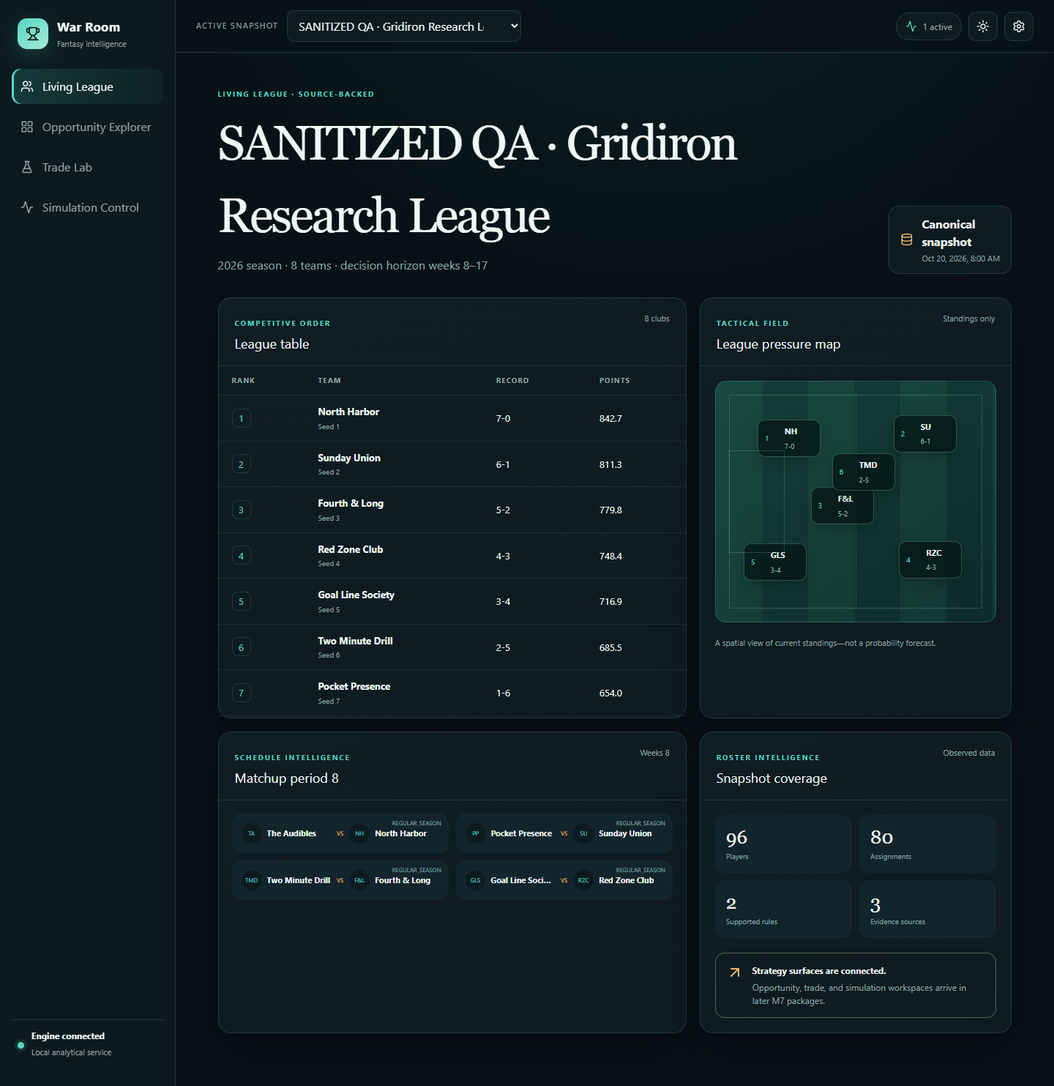
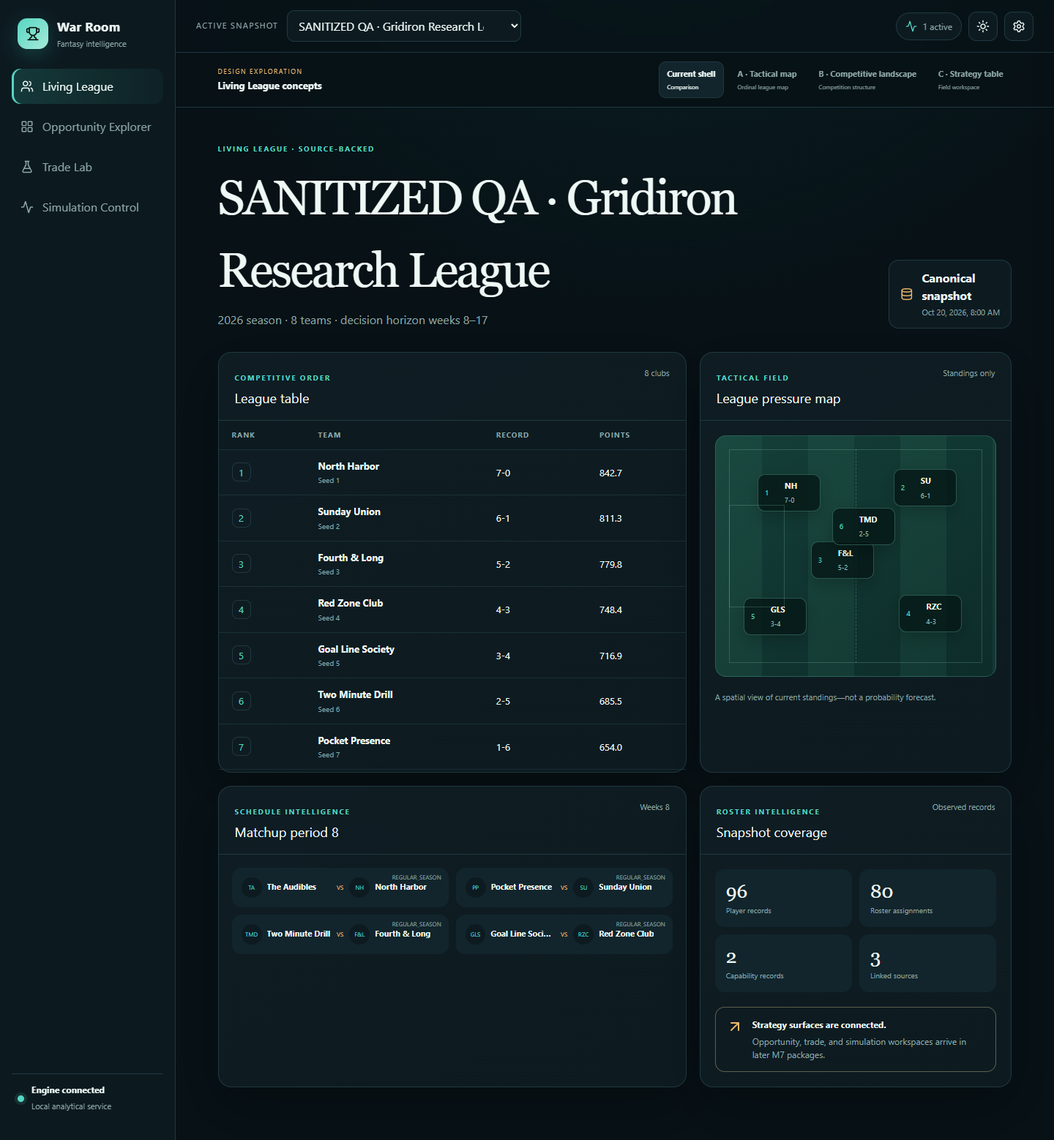
feat: add M7.1 visual direction prototypes

diff --git a/frontend/src/styles.css b/frontend/src/styles.css
@@ -21,3 +21,12 @@ main { min-width:0; }.surface{padding:42px clamp(20px,4vw,64px) 72px;max-width:1
 @media (max-width:1050px){.app-shell{grid-template-columns:84px 1fr}.brand>div:last-child,.rail nav button span,.rail-footer div{display:none}.brand{justify-content:center}.rail nav button{justify-content:center}.league-grid{grid-template-columns:1fr}.pitch-card{order:-1}.matchup-list{grid-template-columns:repeat(2,1fr)}}
 @media (max-width:700px){.app-shell{display:block;padding-bottom:68px}.rail{position:fixed;inset:0 auto 0 0;width:260px;transform:translateX(-105%);transition:transform .2s}.rail.rail-open{transform:none}.brand>div:last-child,.rail nav button span,.rail-footer div{display:block}.brand{justify-content:flex-start}.rail nav button{justify-content:flex-start}.command-bar{grid-column:auto;padding:10px 14px}.mobile-only{display:grid}.snapshot-control>span,.run-indicator span{display:none}.snapshot-control select{max-width:45vw}.scrim{display:block;position:fixed;inset:0;border:0;background:rgb(0 0 0 / .55);z-index:19}.surface{padding:28px 15px 45px}.hero{align-items:start;display:block}.hero h1{font-size:38px}.source-seal{margin-top:20px;width:max-content}.matchup-list{grid-template-columns:1fr}.mobile-nav{display:flex;position:fixed;z-index:15;bottom:0;left:0;right:0;height:66px;background:color-mix(in srgb,var(--panel) 94%,transparent);border-top:1px solid var(--line);justify-content:space-around;backdrop-filter:blur(18px)}.mobile-nav button{border:0;background:transparent;color:var(--muted);display:grid;place-items:center;padding:7px 6px;min-width:62px;font-size:9px}.mobile-nav button svg{width:19px}.mobile-nav button.active{color:var(--teal)}.pitch{height:280px;margin:12px}.standings th,.standings td{padding:11px 10px}.context-panel{bottom:66px}.command-actions{gap:5px}.icon-button{width:38px;height:38px}}
 @media (prefers-reduced-motion:reduce){*,*:before,*:after{scroll-behavior:auto!important;animation-duration:.01ms!important;animation-iteration-count:1!important;transition-duration:.01ms!important}}
+
+/* M7.1 visual-direction lab: isolated presentation prototypes over shared source data. */
+.concept-bar{position:sticky;top:72px;z-index:11;display:flex;align-items:center;justify-content:space-between;gap:20px;padding:12px clamp(20px,4vw,64px);background:color-mix(in srgb,var(--bg) 92%,transparent);border-bottom:1px solid var(--line);backdrop-filter:blur(18px)}.concept-bar>div:first-child span,.concept-bar>div:first-child strong{display:block}.concept-bar>div:first-child span{color:var(--warm);font-size:9px;text-transform:uppercase;letter-spacing:.16em}.concept-bar>div:first-child strong{font-size:13px;margin-top:3px}.concept-bar [role=tablist]{display:flex;gap:6px;overflow:auto}.concept-bar button{border:1px solid transparent;background:transparent;color:var(--muted);padding:8px 11px;border-radius:10px;text-align:left;cursor:pointer;white-space:nowrap}.concept-bar button strong,.concept-bar button span{display:block}.concept-bar button strong{font-size:11px}.concept-bar button span{font-size:8px;margin-top:3px}.concept-bar button[aria-selected=true]{background:var(--panel-2);border-color:var(--line);color:var(--text)}
+.prototype{min-height:calc(100vh - 132px);padding:28px clamp(20px,4vw,60px) 56px;max-width:1600px;margin:auto}.prototype-title{display:grid;grid-template-columns:52px 1fr auto;gap:18px;align-items:start;margin-bottom:25px}.prototype-title>svg{width:46px;height:46px;padding:12px;border:1px solid var(--line);border-radius:14px;color:var(--teal);background:var(--panel)}.prototype-title h1{font:clamp(32px,4vw,54px) Georgia,serif;letter-spacing:-.035em;margin:4px 0}.prototype-title p{color:var(--muted);max-width:760px;margin:0;line-height:1.6}.prototype-title em{font-style:normal;color:var(--muted);font-size:9px;text-transform:uppercase;letter-spacing:.12em;border:1px solid var(--line);border-radius:999px;padding:8px 10px}.prototype-kicker{color:var(--teal);font-size:9px;text-transform:uppercase;letter-spacing:.17em;font-weight:700}
+.map-stage{position:relative;min-height:650px;border:1px solid var(--line);border-radius:28px;overflow:hidden;background:radial-gradient(circle at 50% 50%,rgb(69 204 183 / .12),transparent 32%),linear-gradient(145deg,#08191d,#071116 65%)}.map-stage:before{content:"";position:absolute;inset:0;background-image:linear-gradient(rgb(86 214 194 / .04) 1px,transparent 1px),linear-gradient(90deg,rgb(86 214 194 / .04) 1px,transparent 1px);background-size:44px 44px}.map-axis{position:absolute;left:5%;right:35%;top:34px;display:flex;justify-content:space-between;color:var(--muted);font-size:9px;text-transform:uppercase;letter-spacing:.12em}.map-track{position:absolute;left:6%;right:37%;top:100px;bottom:70px;display:grid;grid-template-columns:repeat(4,1fr);grid-template-rows:repeat(2,1fr);gap:34px}.map-track:before{content:"";position:absolute;left:4%;right:4%;top:50%;border-top:1px dashed rgb(86 214 194 / .22)}.map-track button{position:relative;z-index:2;align-self:center;justify-self:center;width:112px;height:112px;border-radius:50%;border:1px solid rgb(92 211 190 / .3);background:radial-gradient(circle at 35% 30%,#173b3b,#091719 67%);color:var(--text);box-shadow:0 18px 40px rgb(0 0 0 / .32);cursor:pointer}.map-track button span,.map-track button strong,.map-track button small{display:block}.map-track button span{position:absolute;top:9px;left:12px;color:var(--teal);font-size:9px}.map-track button strong{font-size:18px}.map-track button small{color:var(--muted);margin-top:4px}.map-track button.selected{border:2px solid var(--warm);transform:scale(1.08);box-shadow:0 0 0 8px rgb(241 185 107 / .08),0 20px 50px rgb(0 0 0 / .4)}.map-intel{position:absolute;right:0;top:0;bottom:0;width:31%;padding:38px 30px;background:rgb(8 25 29 / .9);border-left:1px solid var(--line);backdrop-filter:blur(16px)}.map-intel h2{font:30px Georgia,serif;margin:8px 0 24px}.fact-strip{display:grid;grid-template-columns:repeat(3,1fr);gap:8px}.fact-strip>div{padding:12px;background:var(--panel-2);border-radius:11px}.fact-strip span,.fact-strip strong{display:block}.fact-strip span{font-size:8px;color:var(--muted);text-transform:uppercase}.fact-strip strong{margin-top:5px}.map-intel h3{font-size:10px;text-transform:uppercase;letter-spacing:.13em;color:var(--muted);margin-top:35px}.linked-opponent{display:flex;align-items:center;gap:8px;padding:13px;border:1px solid var(--line);border-radius:12px}.linked-opponent svg{width:15px;color:var(--warm)}
+.landscape-grid{display:grid;grid-template-columns:1fr 1.15fr 1fr;min-height:610px;border:1px solid var(--line);border-radius:28px;overflow:hidden;background:var(--panel)}.field-column{padding:25px;background:linear-gradient(180deg,rgb(66 208 187 / .08),transparent)}.field-column.outside{background:linear-gradient(180deg,rgb(241 185 107 / .06),transparent)}.field-column header{display:flex;justify-content:space-between;align-items:end;margin-bottom:18px}.field-column header span,.field-column header strong{display:block}.field-column header span{color:var(--muted);font-size:9px;text-transform:uppercase;letter-spacing:.12em}.field-column header strong{font:18px Georgia,serif}.landscape-team{width:100%;display:grid;grid-template-columns:30px 1fr 18px;align-items:center;gap:10px;padding:13px 10px;margin:7px 0;text-align:left;background:transparent;border:1px solid transparent;border-radius:12px;color:var(--text);cursor:pointer}.landscape-team>span{width:28px;height:28px;display:grid;place-items:center;border:1px solid var(--line);border-radius:9px;color:var(--teal)}.landscape-team strong,.landscape-team small{display:block}.landscape-team strong{font-size:12px}.landscape-team small{color:var(--muted);font-size:9px;margin-top:3px}.landscape-team svg{width:14px}.landscape-team.selected{border-color:var(--teal);background:var(--panel-2)}.matchup-spine{padding:34px 25px;border-left:1px solid var(--line);border-right:1px solid var(--line);background:radial-gradient(circle at 50% 20%,rgb(86 214 194 / .08),transparent 40%)}.versus-node{display:grid;grid-template-columns:1fr 30px 1fr;align-items:center;gap:8px;margin:24px 0}.versus-node button{min-height:54px;border:1px solid var(--line);border-radius:11px;background:var(--panel-2);color:var(--text);font-size:11px;cursor:pointer}.versus-node svg{width:16px;color:var(--warm);justify-self:center}.landscape-focus{display:flex;align-items:center;gap:15px;margin-top:12px;padding:12px 18px;border:1px solid var(--line);border-radius:13px;background:var(--panel)}.landscape-focus span{color:var(--teal);font-size:9px;text-transform:uppercase}.landscape-focus p{margin-left:auto;color:var(--muted);font-size:11px}
+.strategy-field{position:relative;min-height:650px;border:1px solid rgb(137 226 193 / .24);border-radius:8px;background:repeating-linear-gradient(90deg,rgb(83 179 124 / .07) 0,rgb(83 179 124 / .07) 10%,transparent 10%,transparent 20%),linear-gradient(180deg,#153f32,#0b2e29);box-shadow:inset 0 0 80px rgb(0 0 0 / .35),0 25px 70px rgb(0 0 0 / .25);overflow:hidden}.strategy-field:before{content:"";position:absolute;inset:32px;border:2px solid rgb(211 255 229 / .18)}.strategy-field:after{content:"";position:absolute;top:32px;bottom:32px;left:50%;border-left:2px solid rgb(211 255 229 / .2)}.field-numbers{position:absolute;z-index:1;left:7%;right:7%;top:48%;display:flex;justify-content:space-between;color:rgb(203 244 220 / .2);font:30px Georgia,serif}.field-matchups{position:absolute;z-index:2;inset:80px 35% 80px 6%;display:grid;grid-template-columns:repeat(2,1fr);gap:22px}.field-matchup{align-self:center;display:grid;grid-template-columns:1fr 28px 1fr;align-items:center;gap:8px;padding:15px;border:1px solid rgb(202 255 227 / .18);background:rgb(3 25 20 / .62);backdrop-filter:blur(8px);border-radius:15px}.field-matchup button{height:74px;border-radius:12px;border:1px solid rgb(128 233 192 / .26);background:#08231f;color:var(--text);font-weight:800;cursor:pointer}.field-matchup button.selected{border:2px solid var(--warm);box-shadow:0 0 0 5px rgb(241 185 107 / .1)}.field-matchup span{text-align:center;color:var(--warm);font-size:8px}.table-legend{position:absolute;z-index:2;bottom:45px;left:7%;font-size:9px;text-transform:uppercase;letter-spacing:.14em;color:rgb(211 255 229 / .55)}.table-intel{position:absolute;z-index:3;right:24px;top:24px;bottom:24px;width:29%;padding:30px;background:rgb(4 18 18 / .9);border:1px solid rgb(140 231 200 / .2);border-radius:16px;backdrop-filter:blur(16px)}.table-intel h2{font:30px Georgia,serif}.table-intel p{display:flex;justify-content:space-between;padding:12px 0;border-bottom:1px solid rgb(140 231 200 / .14);color:#9cc0b5;font-size:11px}.table-intel p strong{color:white}.table-intel button{display:flex;align-items:center;justify-content:space-between;width:100%;margin-top:30px;padding:12px;border:1px solid var(--teal);border-radius:11px;background:transparent;color:var(--teal)}.table-intel button svg{width:15px}.table-intel small{display:block;color:#77958d;margin-top:12px;line-height:1.5}
+@media(max-width:900px){.concept-bar{display:block;top:62px}.concept-bar>div:first-child{display:none}.concept-bar [role=tablist]{padding-bottom:2px}.prototype-title{grid-template-columns:44px 1fr}.prototype-title em{display:none}.map-stage{min-height:850px}.map-track{right:5%;bottom:320px;grid-template-columns:repeat(2,1fr);grid-template-rows:repeat(4,1fr);gap:10px}.map-axis{right:5%}.map-track button{width:84px;height:84px}.map-intel{top:auto;width:100%;height:285px;border-left:0;border-top:1px solid var(--line)}.landscape-grid{grid-template-columns:1fr}.matchup-spine{order:-1;border:0;border-bottom:1px solid var(--line)}.strategy-field{min-height:900px}.field-matchups{inset:65px 6% 360px;grid-template-columns:1fr}.table-intel{top:auto;left:18px;right:18px;bottom:18px;width:auto;height:315px}.field-numbers{display:none}}
+@media(max-width:700px){.concept-bar{top:58px;padding:8px 10px}.concept-bar button span{display:none}.concept-bar button{padding:7px 9px}.prototype{padding:24px 12px 90px}.prototype-title{grid-template-columns:1fr}.prototype-title>svg{display:none}.prototype-title h1{font-size:36px}.map-track{top:75px}.landscape-focus{display:block}.landscape-focus p{margin:6px 0 0}.field-column{padding:18px}.matchup-spine{padding:22px 18px}}

diff --git a/frontend/src/VisualConcepts.tsx b/frontend/src/VisualConcepts.tsx
@@ -1,0 +1,68 @@
+import { useMemo, useState } from "react";
+import { ChevronRight, Crosshair, Layers3, Map as MapIcon, Radio, Swords } from "lucide-react";
+import type { SnapshotSummary, TeamSummary } from "./types/api";
+
+export type VisualConcept = "shell" | "tactical" | "landscape" | "table";
+const concepts: readonly [VisualConcept,string,string][] = [
+  ["shell","Current shell","Comparison"], ["tactical","A · Tactical map","Ordinal league map"],
+  ["landscape","B · Competitive landscape","Competition structure"], ["table","C · Strategy table","Field workspace"],
+];
+
+function Switcher({concept,onChange}:{concept:VisualConcept;onChange:(value:VisualConcept)=>void}) {
+  return <div className="concept-bar" aria-label="Visual direction prototypes"><div><span>Design exploration</span><strong>Living League concepts</strong></div><div role="tablist" aria-label="Choose visual concept">{concepts.map(([id,label,description])=><button key={id} role="tab" aria-selected={concept===id} onClick={()=>onChange(id)}><strong>{label}</strong><span>{description}</span></button>)}</div></div>;
+}
+
+function Render({concept,snapshot}:{concept:Exclude<VisualConcept,"shell">;snapshot:SnapshotSummary}) {
+  if(concept==="tactical") return <TacticalMap snapshot={snapshot}/>;
+  if(concept==="landscape") return <CompetitiveLandscape snapshot={snapshot}/>;
+  return <StrategyTable snapshot={snapshot}/>;
+}
+export const ConceptSwitcher=Object.assign(Switcher,{Render});
+
+function useLeague(snapshot:SnapshotSummary) {
+  const teams=useMemo(()=>[...snapshot.teams].sort((a,b)=>(a.standing??999)-(b.standing??999)||a.team_id-b.team_id),[snapshot]);
+  const teamById=useMemo(()=>new Map(teams.map(team=>[team.team_id,team])),[teams]);
+  const period=snapshot.matchup_periods.find(item=>item.scoring_weeks.includes(snapshot.first_simulation_week))??snapshot.matchup_periods[0];
+  const matchups=snapshot.matchups.filter(item=>item.matchup_period_id===period?.matchup_period_id);
+  return {teams,teamById,period,matchups};
+}
+function useSelection(teams:readonly TeamSummary[]) { const [id,setId]=useState<number|undefined>(teams[0]?.team_id); return {selected:teams.find(team=>team.team_id===id),setId}; }
+
+function TacticalMap({snapshot}:{snapshot:SnapshotSummary}) {
+  const {teams,matchups,teamById}=useLeague(snapshot); const {selected,setId}=useSelection(teams);
+  const selectedMatchups=matchups.filter(game=>game.home_team_id===selected?.team_id||game.away_team_id===selected?.team_id);
+  return <section className="prototype prototype-map" aria-label="Tactical League Map prototype">
+    <PrototypeTitle icon={<MapIcon/>} code="Concept A" title="Tactical League Map" copy="Official standing order rendered as a navigable league constellation. Position is ordinal and does not encode probability or team strength."/>
+    <div className="map-stage"><div className="map-axis"><span>Standing 1</span><span>Official standing order</span><span>Standing {teams.length}</span></div><div className="map-track" aria-label="Teams ordered by official standing">{teams.map((team,index)=><button key={team.team_id} className={selected?.team_id===team.team_id?"selected":""} style={{"--rank":index} as React.CSSProperties} onClick={()=>setId(team.team_id)} aria-pressed={selected?.team_id===team.team_id}><span>{team.standing??"—"}</span><strong>{initials(team.display_name)}</strong><small>{team.wins}–{team.losses}</small></button>)}</div>
+      <aside className="map-intel" aria-live="polite"><span className="prototype-kicker">Selected club</span><h2>{selected?.display_name??"Select a team"}</h2>{selected&&<><div className="fact-strip"><Fact label="Record" value={`${selected.wins}–${selected.losses}`}/><Fact label="Points" value={selected.points_for.toFixed(1)}/><Fact label="Seed" value={String(selected.playoff_seed??"Unresolved")}/></div><h3>Current matchup link</h3>{selectedMatchups.length?selectedMatchups.map(game=>{const other=teamById.get(game.home_team_id===selected.team_id?game.away_team_id!:game.home_team_id!);return <p key={game.matchup_id} className="linked-opponent"><Radio/> {other?.display_name??"Opponent TBD"}</p>}):<p className="quiet">No current matchup record.</p>}</>}</aside>
+    </div>
+  </section>;
+}
+
+function CompetitiveLandscape({snapshot}:{snapshot:SnapshotSummary}) {
+  const {teams,matchups,teamById,period}=useLeague(snapshot); const {selected,setId}=useSelection(teams);
+  const qualifierCount=snapshot.league_structure?.championship_qualifier_count;
+  const qualifiers=qualifierCount===null||qualifierCount===undefined?[]:teams.slice(0,qualifierCount); const outside=qualifierCount===null||qualifierCount===undefined?teams:teams.slice(qualifierCount);
+  return <section className="prototype prototype-landscape" aria-label="Competitive Landscape prototype">
+    <PrototypeTitle icon={<Layers3/>} code="Concept B" title="Competitive Landscape" copy="The configured championship field, official standings, and scheduled matchup relationships form one competition view—without invented odds or tiers."/>
+    <div className="landscape-grid"><div className="field-column"><header><span>Configured championship field</span><strong>{qualifierCount??"Unresolved"} places</strong></header>{qualifiers.length?qualifiers.map(team=><LandscapeTeam key={team.team_id} team={team} selected={selected?.team_id===team.team_id} onClick={()=>setId(team.team_id)}/>):<p className="quiet">Qualification structure is unresolved.</p>}</div>
+      <div className="matchup-spine"><span className="prototype-kicker">Matchup period {period?.matchup_period_id??"unresolved"}</span>{matchups.map(game=><div className="versus-node" key={game.matchup_id}><button onClick={()=>game.away_team_id&&setId(game.away_team_id)}>{teamById.get(game.away_team_id??-1)?.display_name??"TBD"}</button><Swords/><button onClick={()=>game.home_team_id&&setId(game.home_team_id)}>{teamById.get(game.home_team_id??-1)?.display_name??"TBD"}</button></div>)}</div>
+      <div className="field-column outside"><header><span>Outside configured field</span><strong>{outside.length} clubs</strong></header>{outside.map(team=><LandscapeTeam key={team.team_id} team={team} selected={selected?.team_id===team.team_id} onClick={()=>setId(team.team_id)}/>)}</div></div>
+    {selected&&<div className="landscape-focus"><span>Focused team</span><strong>{selected.display_name}</strong><p>Standing {selected.standing??"unresolved"} · {selected.wins}–{selected.losses} · {selected.points_for.toFixed(1)} source points</p></div>}
+  </section>;
+}
+
+function StrategyTable({snapshot}:{snapshot:SnapshotSummary}) {
+  const {teams,matchups,teamById,period}=useLeague(snapshot); const {selected,setId}=useSelection(teams);
+  return <section className="prototype prototype-table" aria-label="Digital Strategy Table prototype">
+    <PrototypeTitle icon={<Crosshair/>} code="Concept C" title="Digital Strategy Table" copy="The field is the primary workspace. Scheduled matchup objects occupy lanes; selecting a club summons factual intelligence at the table edge."/>
+    <div className="strategy-field"><div className="field-numbers" aria-hidden="true"><span>10</span><span>20</span><span>30</span><span>40</span><span>50</span><span>40</span><span>30</span><span>20</span><span>10</span></div><div className="field-matchups">{matchups.map((game,index)=><div className="field-matchup" key={game.matchup_id} style={{"--lane":index} as React.CSSProperties}><button className={selected?.team_id===game.away_team_id?"selected":""} onClick={()=>game.away_team_id&&setId(game.away_team_id)}>{initials(teamById.get(game.away_team_id??-1)?.display_name??"TBD")}</button><span>VS</span><button className={selected?.team_id===game.home_team_id?"selected":""} onClick={()=>game.home_team_id&&setId(game.home_team_id)}>{initials(teamById.get(game.home_team_id??-1)?.display_name??"TBD")}</button></div>)}</div><div className="table-legend">Scheduled matchups · period {period?.matchup_period_id??"unresolved"}</div>
+      <aside className="table-intel" aria-live="polite"><span className="prototype-kicker">Table intelligence</span><h2>{selected?.display_name??"Select a club"}</h2>{selected&&<><p>Official standing <strong>{selected.standing??"—"}</strong></p><p>Record <strong>{selected.wins}–{selected.losses}</strong></p><p>Points for <strong>{selected.points_for.toFixed(1)}</strong></p><button>Open context <ChevronRight/></button><small>Exploration only · no analytical action is executed</small></>}</aside>
+    </div>
+  </section>;
+}
+
+function PrototypeTitle({icon,code,title,copy}:{icon:React.ReactNode;code:string;title:string;copy:string}) { return <header className="prototype-title">{icon}<div><span className="prototype-kicker">{code} · visual review prototype</span><h1 id={`${title.toLowerCase().replaceAll(" ","-")}-title`}>{title}</h1><p>{copy}</p></div><em>Sanitized fixture compatible</em></header>; }
+function LandscapeTeam({team,selected,onClick}:{team:TeamSummary;selected:boolean;onClick:()=>void}) { return <button className={`landscape-team ${selected?"selected":""}`} onClick={onClick} aria-pressed={selected}><span>{team.standing??"—"}</span><div><strong>{team.display_name}</strong><small>{team.wins}–{team.losses} · {team.points_for.toFixed(1)} pts</small></div><ChevronRight/></button>; }
+function Fact({label,value}:{label:string;value:string}) { return <div><span>{label}</span><strong>{value}</strong></div>; }
+function initials(name:string) { return name.split(/\s+/).map(part=>part[0]).join("").slice(0,3).toUpperCase(); }

diff --git a/frontend/src/App.tsx b/frontend/src/App.tsx
@@ -2,6 +2,7 @@ import { useEffect, useMemo, useState } from "react";
 import { Activity, ArrowUpRight, Database, FlaskConical, LayoutGrid, Menu, Moon, RefreshCw, Settings, ShieldCheck, Sun, Trophy, Users, X } from "lucide-react";
 import { api, ApiError } from "./lib/api";
 import type { BackgroundRunRecord, HealthResponse, SnapshotSummary } from "./types/api";
+import { ConceptSwitcher, type VisualConcept } from "./VisualConcepts";
 
 type Destination = "league" | "opportunities" | "trades" | "simulation";
 type Theme = "dark" | "light";
@@ -27,28 +28,30 @@ export function App() {
   const [error, setError] = useState<ApiError>();
   const [contextOpen, setContextOpen] = useState(false);
   const [menuOpen, setMenuOpen] = useState(false);
+  const [visualConcept, setVisualConcept] = useState<VisualConcept>(() => {
+    const value = new URLSearchParams(location.search).get("concept");
+    return value === "tactical" || value === "landscape" || value === "table" ? value : "shell";
+  });
 
-  const load = async () => {
+  const load = async (signal?: AbortSignal) => {
     setLoading(true); setError(undefined);
-    const controller = new AbortController();
     try {
       const [nextHealth, nextSnapshots, nextRuns] = await Promise.all([
-        api.health(controller.signal), api.snapshots(controller.signal), api.runs(controller.signal),
+        api.health(signal), api.snapshots(signal), api.runs(signal),
       ]);
       setHealth(nextHealth); setSnapshots(nextSnapshots); setRuns(nextRuns);
       if (nextSnapshots.length) {
         const saved = localStorage.getItem("war-room-snapshot");
         const id = nextSnapshots.some((item) => item.snapshot_id === saved) ? saved! : nextSnapshots[0].snapshot_id;
-        setSelected(await api.snapshot(id, controller.signal));
+        setSelected(await api.snapshot(id, signal));
         localStorage.setItem("war-room-snapshot", id);
       } else setSelected(undefined);
     } catch (cause) {
       if (!(cause instanceof DOMException && cause.name === "AbortError")) setError(cause instanceof ApiError ? cause : new ApiError("Unexpected application error.", -1));
-    } finally { setLoading(false); }
-    return () => controller.abort();
+    } finally { if (!signal?.aborted) setLoading(false); }
   };
 
-  useEffect(() => { void load(); }, []);
+  useEffect(() => { const controller = new AbortController(); void load(controller.signal); return () => controller.abort(); }, []);
   useEffect(() => { document.documentElement.dataset.theme = theme; localStorage.setItem("war-room-theme", theme); }, [theme]);
 
   const chooseSnapshot = async (id: string) => {
@@ -58,7 +61,6 @@ export function App() {
     finally { setLoading(false); }
   };
   const activeRuns = runs.filter((run) => ["queued", "running", "cancel_requested"].includes(run.status));
-  const selectedLabel = snapshots.find((item) => item.snapshot_id === selected?.snapshot_id);
 
   return <div className="app-shell">
     <a className="skip-link" href="#main-content">Skip to strategy surface</a>
@@ -78,7 +80,7 @@ export function App() {
     </header>
     {menuOpen && <button className="scrim" aria-label="Close navigation" onClick={() => setMenuOpen(false)}/>} 
     <main id="main-content" tabIndex={-1}>
-      {loading && !selected ? <LoadingState/> : error ? <FailureState error={error} retry={() => void load()}/> : !selected ? <EmptyState/> : destination === "league" ? <LivingLeague snapshot={selected}/> : <FutureWorkspace destination={destination} activeRuns={activeRuns}/>} 
+      {loading && !selected ? <LoadingState/> : error ? <FailureState error={error} retry={() => void load()}/> : !selected ? <EmptyState/> : destination === "league" ? <><ConceptSwitcher concept={visualConcept} onChange={setVisualConcept}/>{visualConcept === "shell" ? <LivingLeague snapshot={selected}/> : <ConceptSwitcher.Render concept={visualConcept} snapshot={selected}/>}</> : <FutureWorkspace destination={destination} activeRuns={activeRuns}/>}
     </main>
     <aside className={`context-panel ${contextOpen ? "context-open" : ""}`} aria-label="League context">
       <div className="context-head"><div><span className="eyebrow">Decision context</span><h2>Source & build</h2></div><button className="icon-button" aria-label="Close league context" onClick={() => setContextOpen(false)}><X/></button></div>
@@ -100,7 +102,7 @@ function LivingLeague({ snapshot }: { snapshot: SnapshotSummary }) {
       <article className="card standings"><CardHead kicker="Competitive order" title="League table" meta={`${teams.length} clubs`}/><div className="table-wrap"><table><thead><tr><th>Rank</th><th>Team</th><th>Record</th><th>Points</th></tr></thead><tbody>{teams.map((team) => <tr key={team.team_id}><td><span className="rank">{team.standing ?? "—"}</span></td><td><strong>{team.display_name}</strong><small>{team.playoff_seed ? `Seed ${team.playoff_seed}` : "Seed unresolved"}</small></td><td>{team.wins}-{team.losses}{team.ties ? `-${team.ties}` : ""}</td><td>{team.points_for.toFixed(1)}</td></tr>)}</tbody></table></div></article>
       <article className="card pitch-card"><CardHead kicker="Tactical field" title="League pressure map" meta="Standings only"/><div className="pitch" aria-label="Top league positions"><div className="midfield"/>{teams.slice(0,6).map((team, index) => <div key={team.team_id} className={`team-chip chip-${index}`}><span>{team.standing ?? index+1}</span><strong>{initials(team.display_name)}</strong><small>{team.wins}-{team.losses}</small></div>)}</div><p className="caption">A spatial view of current standings—not a probability forecast.</p></article>
       <article className="card matchups"><CardHead kicker="Schedule intelligence" title={period ? `Matchup period ${period.matchup_period_id}` : "Upcoming matchups"} meta={period ? `Weeks ${period.scoring_weeks.join(", ")}` : "Unresolved"}/><div className="matchup-list">{matchups.length ? matchups.map((game) => <div className="matchup" key={game.matchup_id}><TeamLine team={game.away_team_id ? teamById.get(game.away_team_id) : undefined}/><span className="versus">VS</span><TeamLine team={game.home_team_id ? teamById.get(game.home_team_id) : undefined}/><small>{game.bracket_type ?? period?.phase ?? "scheduled"}</small></div>) : <p className="quiet">No matchup records are available for this decision period.</p>}</div></article>
-      <article className="card intel"><CardHead kicker="Roster intelligence" title="Snapshot coverage" meta="Observed data"/><div className="metric-grid"><Metric value={snapshot.players.length} label="Players"/><Metric value={snapshot.roster_assignments.length} label="Assignments"/><Metric value={snapshot.capabilities.filter(c => c.status.toLowerCase().includes("verified") || c.status.toLowerCase().includes("supported")).length} label="Supported rules"/><Metric value={snapshot.source_count} label="Evidence sources"/></div><div className="insight"><ArrowUpRight/><p><strong>Strategy surfaces are connected.</strong><span>Opportunity, trade, and simulation workspaces arrive in later M7 packages.</span></p></div></article>
+      <article className="card intel"><CardHead kicker="Roster intelligence" title="Snapshot coverage" meta="Observed records"/><div className="metric-grid"><Metric value={snapshot.players.length} label="Player records"/><Metric value={snapshot.roster_assignments.length} label="Roster assignments"/><Metric value={snapshot.capabilities.length} label="Capability records"/><Metric value={snapshot.source_count} label="Linked sources"/></div><div className="insight"><ArrowUpRight/><p><strong>Strategy surfaces are connected.</strong><span>Opportunity, trade, and simulation workspaces arrive in later M7 packages.</span></p></div></article>
     </section>
   </div>;
 }

diff --git a/frontend/src/App.test.tsx b/frontend/src/App.test.tsx
@@ -27,3 +27,9 @@ test("renders typed API errors without fabricated data",async()=>{ vi.spyOn(glob
 test("falls back from a deleted persisted snapshot",async()=>{ localStorage.setItem("war-room-snapshot","deleted"); mockApi(); render(<App/>); await screen.findAllByText("North Harbor"); expect(localStorage.getItem("war-room-snapshot")).toBe(snapshot.snapshot_id); });
 test("core shell has no detectable accessibility violations",async()=>{ mockApi(); const {container}=render(<App/>); await screen.findAllByText("North Harbor"); const result=await axe.run(container); expect(result.violations).toEqual([]); });
 test("mobile navigation remains semantically available",async()=>{ mockApi(); render(<App/>); await screen.findAllByText("North Harbor"); expect(screen.getByRole("navigation",{name:"Mobile primary navigation"})).toBeInTheDocument(); });
+test.each([
+  ["A · Tactical map","Tactical League Map"],
+  ["B · Competitive landscape","Competitive Landscape"],
+  ["C · Strategy table","Digital Strategy Table"],
+])("opens the %s prototype without losing source-backed data",async(tab,title)=>{ mockApi(); const user=userEvent.setup(); render(<App/>); await screen.findAllByText("North Harbor"); await user.click(screen.getByRole("tab",{name:new RegExp(tab)})); expect(screen.getByRole("heading",{name:title})).toBeInTheDocument(); expect(screen.getAllByText(/North Harbor|NH/).length).toBeGreaterThan(0); });
+test("team selection updates contextual prototype intelligence",async()=>{ mockApi(); const user=userEvent.setup(); render(<App/>); await screen.findAllByText("North Harbor"); await user.click(screen.getByRole("tab",{name:/Tactical map/})); await user.click(screen.getByRole("button",{name:/2SU5–2/})); expect(screen.getByRole("heading",{name:"Sunday Union"})).toBeInTheDocument(); });

diff --git a/tests/test_documentation_links.py b/tests/test_documentation_links.py
@@ -50,11 +50,12 @@ def test_authoritative_documents_share_current_product_direction() -> None:
     assert "M6.3 [COMPLETE AND ACCEPTED" in roadmap
     assert "M6.4 [COMPLETE AND ACCEPTED" in roadmap
     assert "Pre-M7 consolidation [COMPLETE AND ACCEPTED" in roadmap
-    assert "M7.1 [IMPLEMENTED — REVIEW PENDING" in roadmap
+    assert "M7.1 [IMPLEMENTED — VISUAL DIRECTION REVIEW PENDING" in roadmap
     assert "BACKEND_READINESS.md" in roadmap
     assert "docs/BACKEND_READINESS.md" in readme
     assert "docs/PRE_M7_REPOSITORY_AUDIT.md" in readme
     assert "docs/M7_1_FRONTEND_FOUNDATION.md" in readme
+    assert "docs/M7_1_VISUAL_DIRECTION_REVIEW.md" in readme
     assert "M8 — Local V1 release" in roadmap
     assert "Integrated CLI V1" not in master_spec
     assert "Optional visual dashboard" not in master_spec

diff --git a/docs/M7_1_VISUAL_DIRECTION_REVIEW.md b/docs/M7_1_VISUAL_DIRECTION_REVIEW.md
@@ -1,0 +1,59 @@
+# M7.1 visual direction review
+
+Status: **DESIGN EXPLORATION READY FOR INDEPENDENT REVIEW — NO DIRECTION SELECTED**.
+
+This checkpoint implements three isolated Living League presentation prototypes under `MASTER_SPEC.md` M7.1. They reuse the accepted React shell, API 1.0 DTOs, tokens, sanitized fixture, and factual league fields. The current shell remains available for comparison. No backend, league-rule, probability, ranking, or transaction behavior changed.
+
+## Review routes
+
+- `/?concept=tactical` — Concept A: Tactical League Map
+- `/?concept=landscape` — Concept B: Competitive Landscape
+- `/?concept=table` — Concept C: Digital Strategy Table
+- `/` — current shell comparison
+
+The query selects presentation only and is not persisted. Team objects are keyboard-selectable and update factual context.
+
+## Concepts
+
+**A — Tactical League Map.** An ordinal league constellation makes teams the primary objects. Read order follows official standings and is explicitly labeled; distance, size, and position do not encode strength or probability. Selecting a club focuses its record, points, configured seed, and scheduled opponent. It offers the strongest direct team exploration and a useful future bridge to evidenced relationship overlays. Larger leagues require adaptive density, and future clustering must never be arbitrary.
+
+**B — Competitive Landscape.** The configured championship qualifier count divides the official standing order into the configured field and teams outside it; scheduled matchups form a central spine. This is competition structure, not a probability model or invented tier. It has the clearest hierarchy, scales best across league sizes, and is easiest to audit. Its risk is drifting back toward conventional lists.
+
+**C — Digital Strategy Table.** The football field is the primary interaction environment. Scheduled matchups occupy lanes; selectable club tokens summon factual intelligence at the table edge. Field placement is a layout convention with no quantitative meaning. This has the strongest football and future Strategy Canvas identity, but the highest density, scaling, and mobile risks.
+
+## Comparison
+
+| Criterion | A: Tactical map | B: Landscape | C: Strategy table |
+|---|---|---|---|
+| War Room fidelity | High | Medium-high | Highest |
+| Structural distinctiveness | High | High | Highest |
+| Information hierarchy | High | Highest | High |
+| Team exploration | Highest | High | High |
+| Matchup exploration | Medium | Highest | High |
+| Contextual intelligence | High | Medium-high | Highest |
+| Different league sizes | Medium-high | Highest | Medium |
+| Opportunity/Trade Lab fit | High | Medium-high | Highest |
+| Mobile usability | High | Highest | Medium |
+| Accessibility | High | High | High, with spatial-order care |
+| Implementation complexity | Medium | Low-medium | High |
+| Clutter/implication risk | Medium | Low | High |
+
+## Recommendation for review
+
+Recommend **Concept C as the interaction-language north star, composed with Concept B’s competition hierarchy and Concept A’s selectable team-object pattern**. This is not a final selection. Independent review should test C at 10-, 12-, 14-, and 16-team sizes and determine whether its mobile form retains enough value.
+
+## Actual application screenshots
+
+All use the same sanitized eight-team fixture. Desktop is 1440 × 1000; mobile is 390 × 844. Selected captures choose the second available team object.
+
+| Concept | Desktop default | Desktop selected | Mobile |
+|---|---|---|---|
+| A | [default](images/m7-1/review-tactical-desktop-default-1440x1000.png) | [selected](images/m7-1/review-tactical-desktop-selected-1440x1000.png) | [mobile](images/m7-1/review-tactical-mobile-390x844.png) |
+| B | [default](images/m7-1/review-landscape-desktop-default-1440x1000.png) | [selected](images/m7-1/review-landscape-desktop-selected-1440x1000.png) | [mobile](images/m7-1/review-landscape-mobile-390x844.png) |
+| C | [default](images/m7-1/review-table-desktop-default-1440x1000.png) | [selected](images/m7-1/review-table-desktop-selected-1440x1000.png) | [mobile](images/m7-1/review-table-mobile-390x844.png) |
+
+## Technical follow-up
+
+Initial loading now aborts through the React effect lifecycle, preventing an unmounted shell from completing its loading transition. Snapshot coverage labels now describe record counts (`Player records`, `Roster assignments`, `Capability records`, `Linked sources`) rather than interpreting capability strings as “supported rules.”
+
+The exploration does not implement M7.2 data, probabilities, or analytical interactions. It does not finalize M7.1.

diff --git a/docs/MASTER_SPEC.md b/docs/MASTER_SPEC.md
@@ -502,7 +502,7 @@ M6.4 [COMPLETE AND ACCEPTED, 28 October 2026] Finalize the additive API 1.0 comp
 
 #### M7 — Futuristic interactive dashboard
 
-M7.1 [IMPLEMENTED — REVIEW PENDING, 28 October 2026] Build a coherent accessible dark-primary shell and reusable design system with React, strict TypeScript, Vite, and Tailwind. The implementation includes responsive/reduced-motion behavior, typed API 1.0 access, snapshot persistence by identifier, operational states, active-run visibility, a source-backed Living League entry surface, and sanitized actual-application visual captures. Analytical destinations remain honest placeholders. See `docs/M7_1_FRONTEND_FOUNDATION.md`. GATE: visual language and navigation are coherent, accessible, and reusable.
+M7.1 [IMPLEMENTED — VISUAL DIRECTION REVIEW PENDING, 28 October 2026] Build a coherent accessible dark-primary shell and reusable design system with React, strict TypeScript, Vite, and Tailwind. The accepted technical foundation remains intact while Tactical League Map, Competitive Landscape, and Digital Strategy Table prototypes support independent comparison without selecting a direction or adding analytics. See `docs/M7_1_FRONTEND_FOUNDATION.md` and `docs/M7_1_VISUAL_DIRECTION_REVIEW.md`. GATE: visual language and navigation are coherent, accessible, and reusable.
 
 M7.2 Build the League Command Center for standings, championship/playoff probabilities, trajectories, league comparisons, postseason visualization, and uncertainty explanation. GATE: every displayed number reconciles with the accepted engine.
 

diff --git a/docs/ROADMAP.md b/docs/ROADMAP.md
@@ -153,7 +153,7 @@ Pre-M7 consolidation [COMPLETE AND ACCEPTED, 28 October 2026] Reconcile accepted
 The [Integrated War Room — Hybrid Tactical Surface](UI_DESIGN_VISION.md) is the
 M7 design north star, not a frozen component specification.
 
-M7.1 [IMPLEMENTED — REVIEW PENDING, 28 October 2026] Build the preferred React/TypeScript/Tailwind accessible design system, responsive Integrated War Room shell, typed API client, source-backed Living League foundation, honest operational states, and visual QA captures. GATE: visual language and primary navigation are coherent, accessible, responsive, and reusable. See `M7_1_FRONTEND_FOUNDATION.md`.
+M7.1 [IMPLEMENTED — VISUAL DIRECTION REVIEW PENDING, 28 October 2026] Build the accessible Integrated War Room shell and source-backed Living League foundation. The technical foundation is retained while three structurally distinct Living League prototypes are available for comparison; no direction is selected. GATE: visual language and primary navigation are coherent, accessible, responsive, and reusable. See `M7_1_FRONTEND_FOUNDATION.md` and `M7_1_VISUAL_DIRECTION_REVIEW.md`.
 
 M7.2 Build the League Command Center for standings, championship/playoff probabilities, trajectories, league-wide comparisons, postseason visualization, and uncertainty explanations. GATE: every displayed numerical result reconciles with the accepted engine.
 

diff --git a/README.md b/README.md
@@ -40,6 +40,7 @@ V1 is a local web application restricted to localhost. The implemented React/Typ
 - [M6.4 backend readiness](docs/BACKEND_READINESS.md) — stable API policy, frontend data inventory, setup, troubleshooting, operations, and M7 handoff.
 - [Pre-M7 repository audit](docs/PRE_M7_REPOSITORY_AUDIT.md) — final architecture, lifecycle, configuration, hygiene, security, and M7.1 readiness disposition.
 - [M7.1 frontend foundation](docs/M7_1_FRONTEND_FOUNDATION.md) — stack, shell, local startup, accessibility, scope boundaries, and actual visual-QA captures.
+- [M7.1 visual direction review](docs/M7_1_VISUAL_DIRECTION_REVIEW.md) — three rendered Living League concepts, comparative assessment, recommendation, and review evidence.
 - [Manual scenarios](docs/MANUAL_SCENARIOS.md) — M4 explicit roster changes, deterministic completion, matched paths, and paired uncertainty.
 - [Multi-trade chains](docs/MULTI_TRADE_CHAINS.md) — M5.6 ordered immediate-chain enumeration, vacancy chronology, and once-only completion.
 - [Unified action search](docs/UNIFIED_ACTION_SEARCH.md) — M5.7 combined immediate trade, chain, acquisition, streaming, state grouping, and evaluation adapter.

diff --git a/docs/M7_1_FRONTEND_FOUNDATION.md b/docs/M7_1_FRONTEND_FOUNDATION.md
@@ -2,6 +2,8 @@
 
 Status: **IMPLEMENTED — REVIEW PENDING (28 October 2026)**.
 
+Visual review found the initial shell too dashboard-conventional. The follow-up preserves it as a comparison and adds three isolated prototypes documented in [M7.1 visual direction review](M7_1_VISUAL_DIRECTION_REVIEW.md). No direction has been selected.
+
 ## Contract and scope
 
 M7.1 implements the Integrated War Room shell required by `MASTER_SPEC.md` M7.1. It presents API 1.0 data and does not calculate rules, projections, probabilities, legality, or rankings. Living League is the source-backed foundation view. Opportunity Explorer, Trade Lab, and Simulation Control are explicitly non-operational placeholders for later M7 packages.

diff --git a/docs/UI_DESIGN_VISION.md b/docs/UI_DESIGN_VISION.md
@@ -1,6 +1,6 @@
 # UI design vision: Integrated War Room
 
-Status: **APPROVED M7 DESIGN NORTH STAR**. M7.1 is **IMPLEMENTED — REVIEW PENDING**; see [M7.1 frontend foundation](M7_1_FRONTEND_FOUNDATION.md) for actual application captures and the implemented scope. This vision remains a north star, not a frozen component specification.
+Status: **APPROVED M7 DESIGN NORTH STAR**. M7.1 is **IMPLEMENTED — VISUAL DIRECTION REVIEW PENDING**; see [M7.1 visual direction review](M7_1_VISUAL_DIRECTION_REVIEW.md). Three prototypes are available, but no direction is selected. This vision remains a north star, not a frozen component specification.
 
 ## Direction
 
